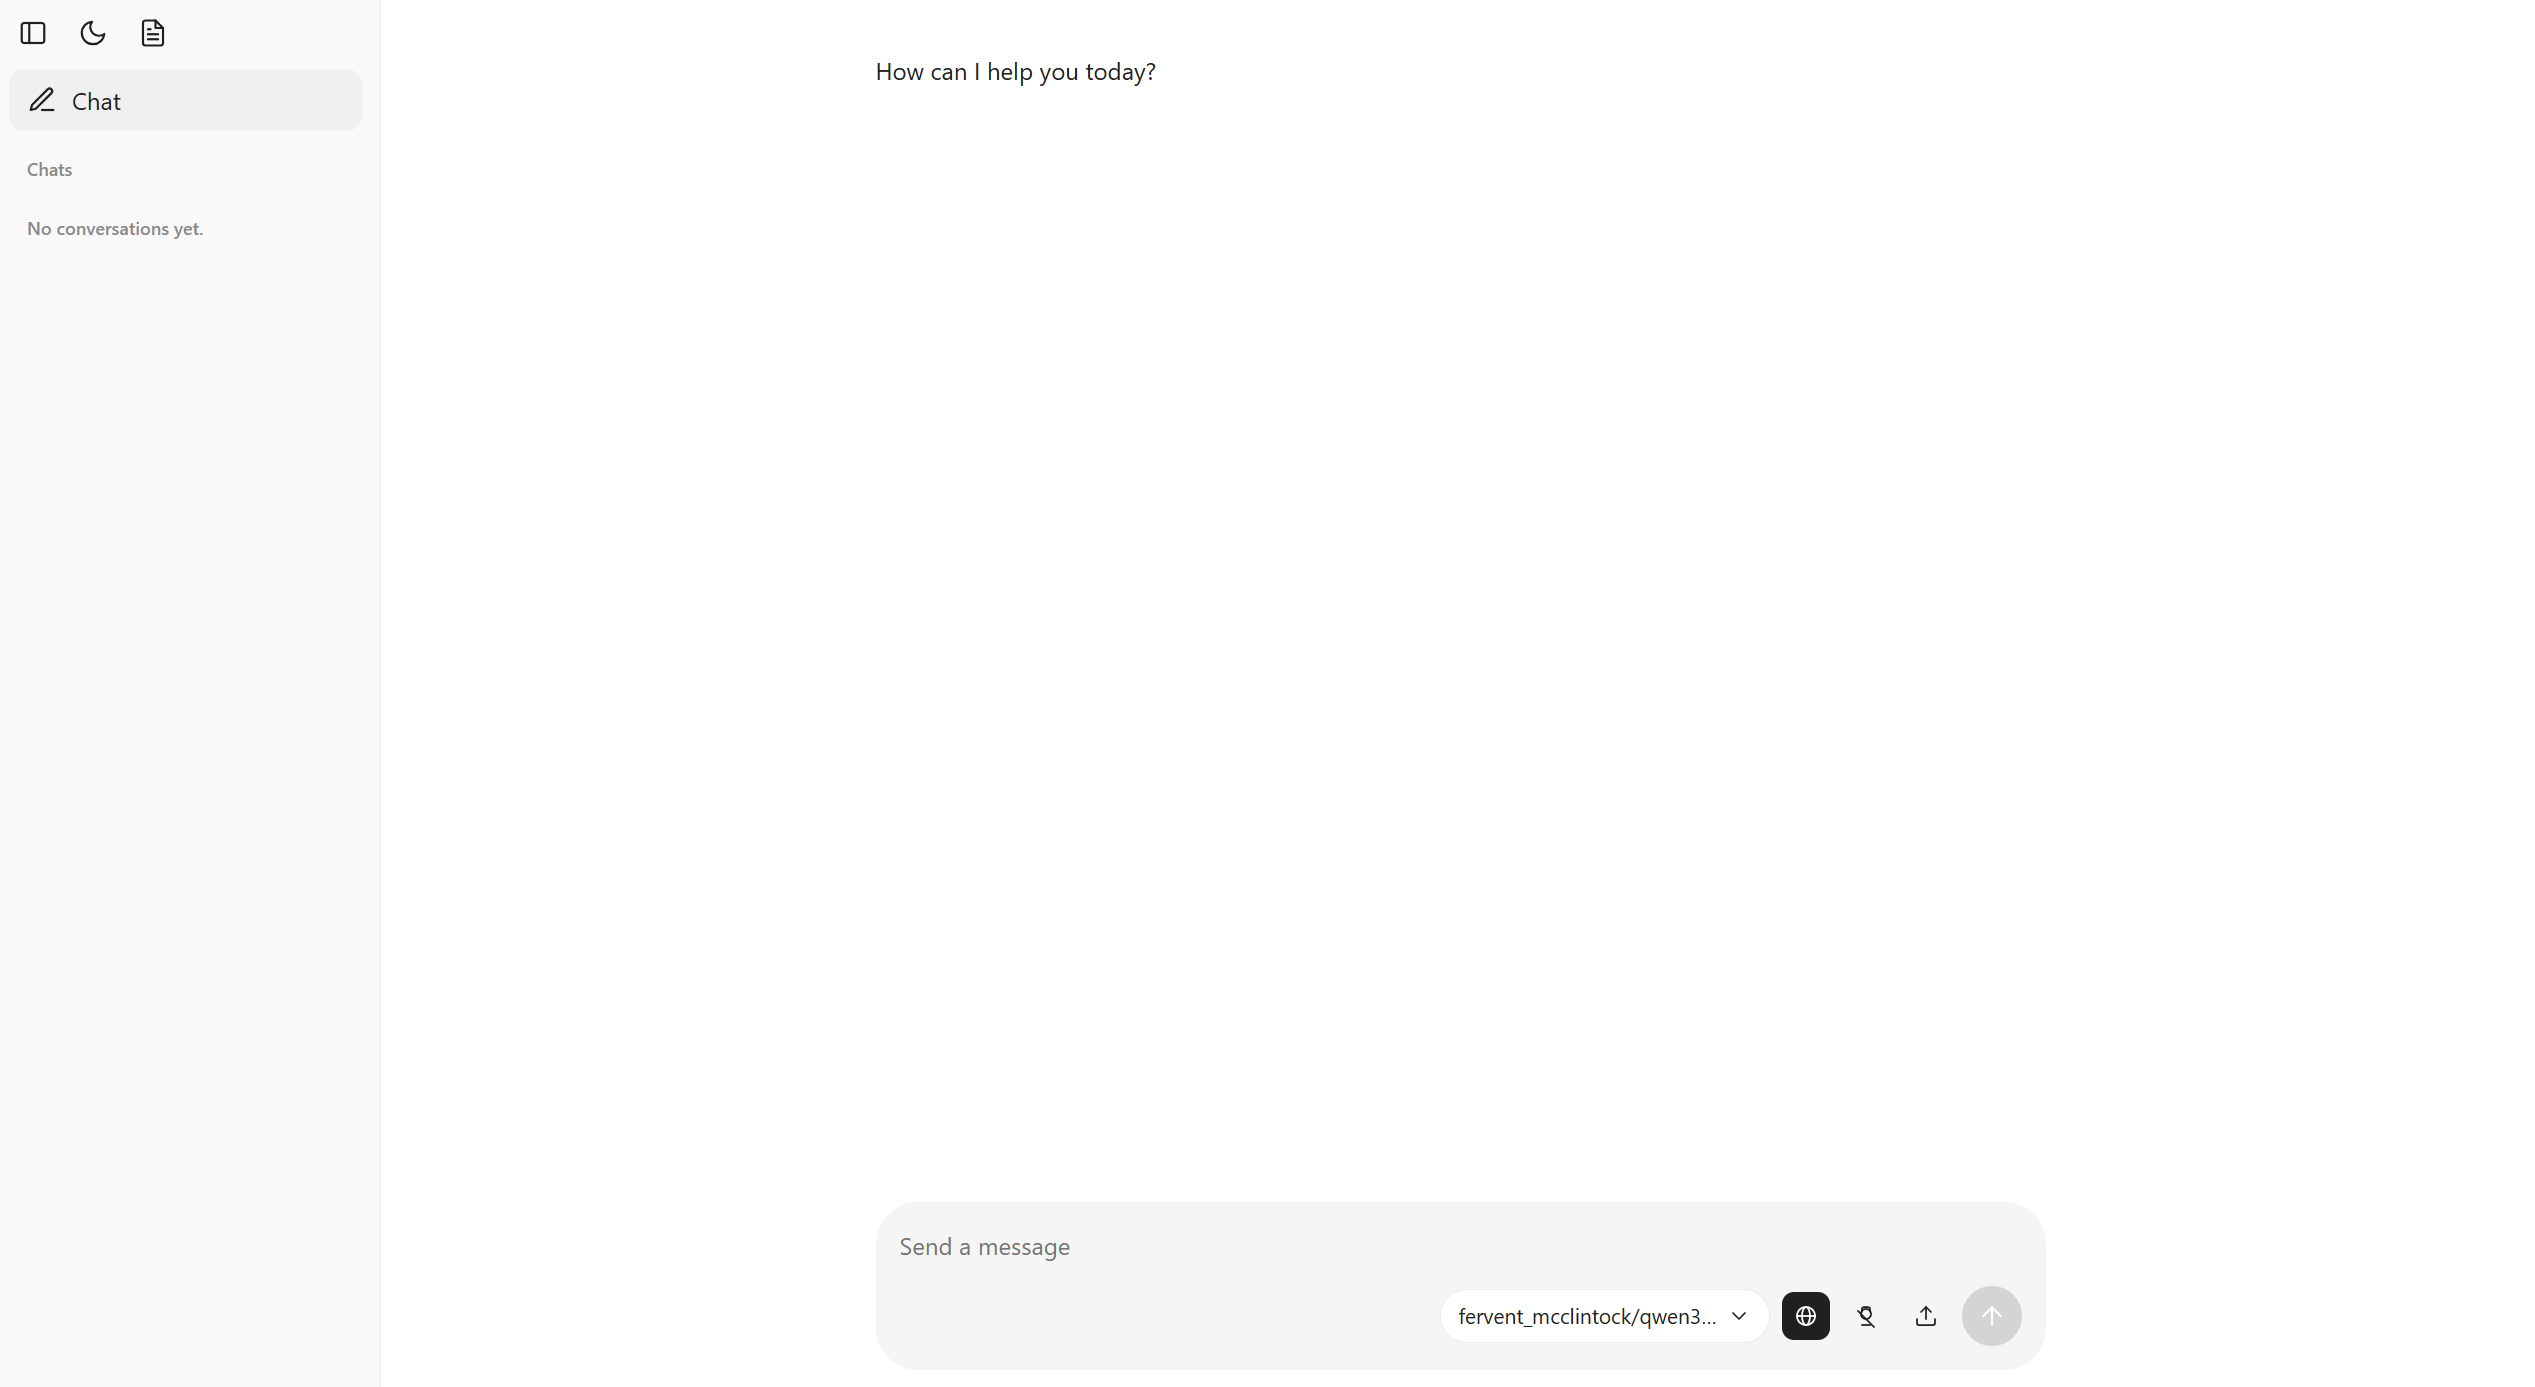
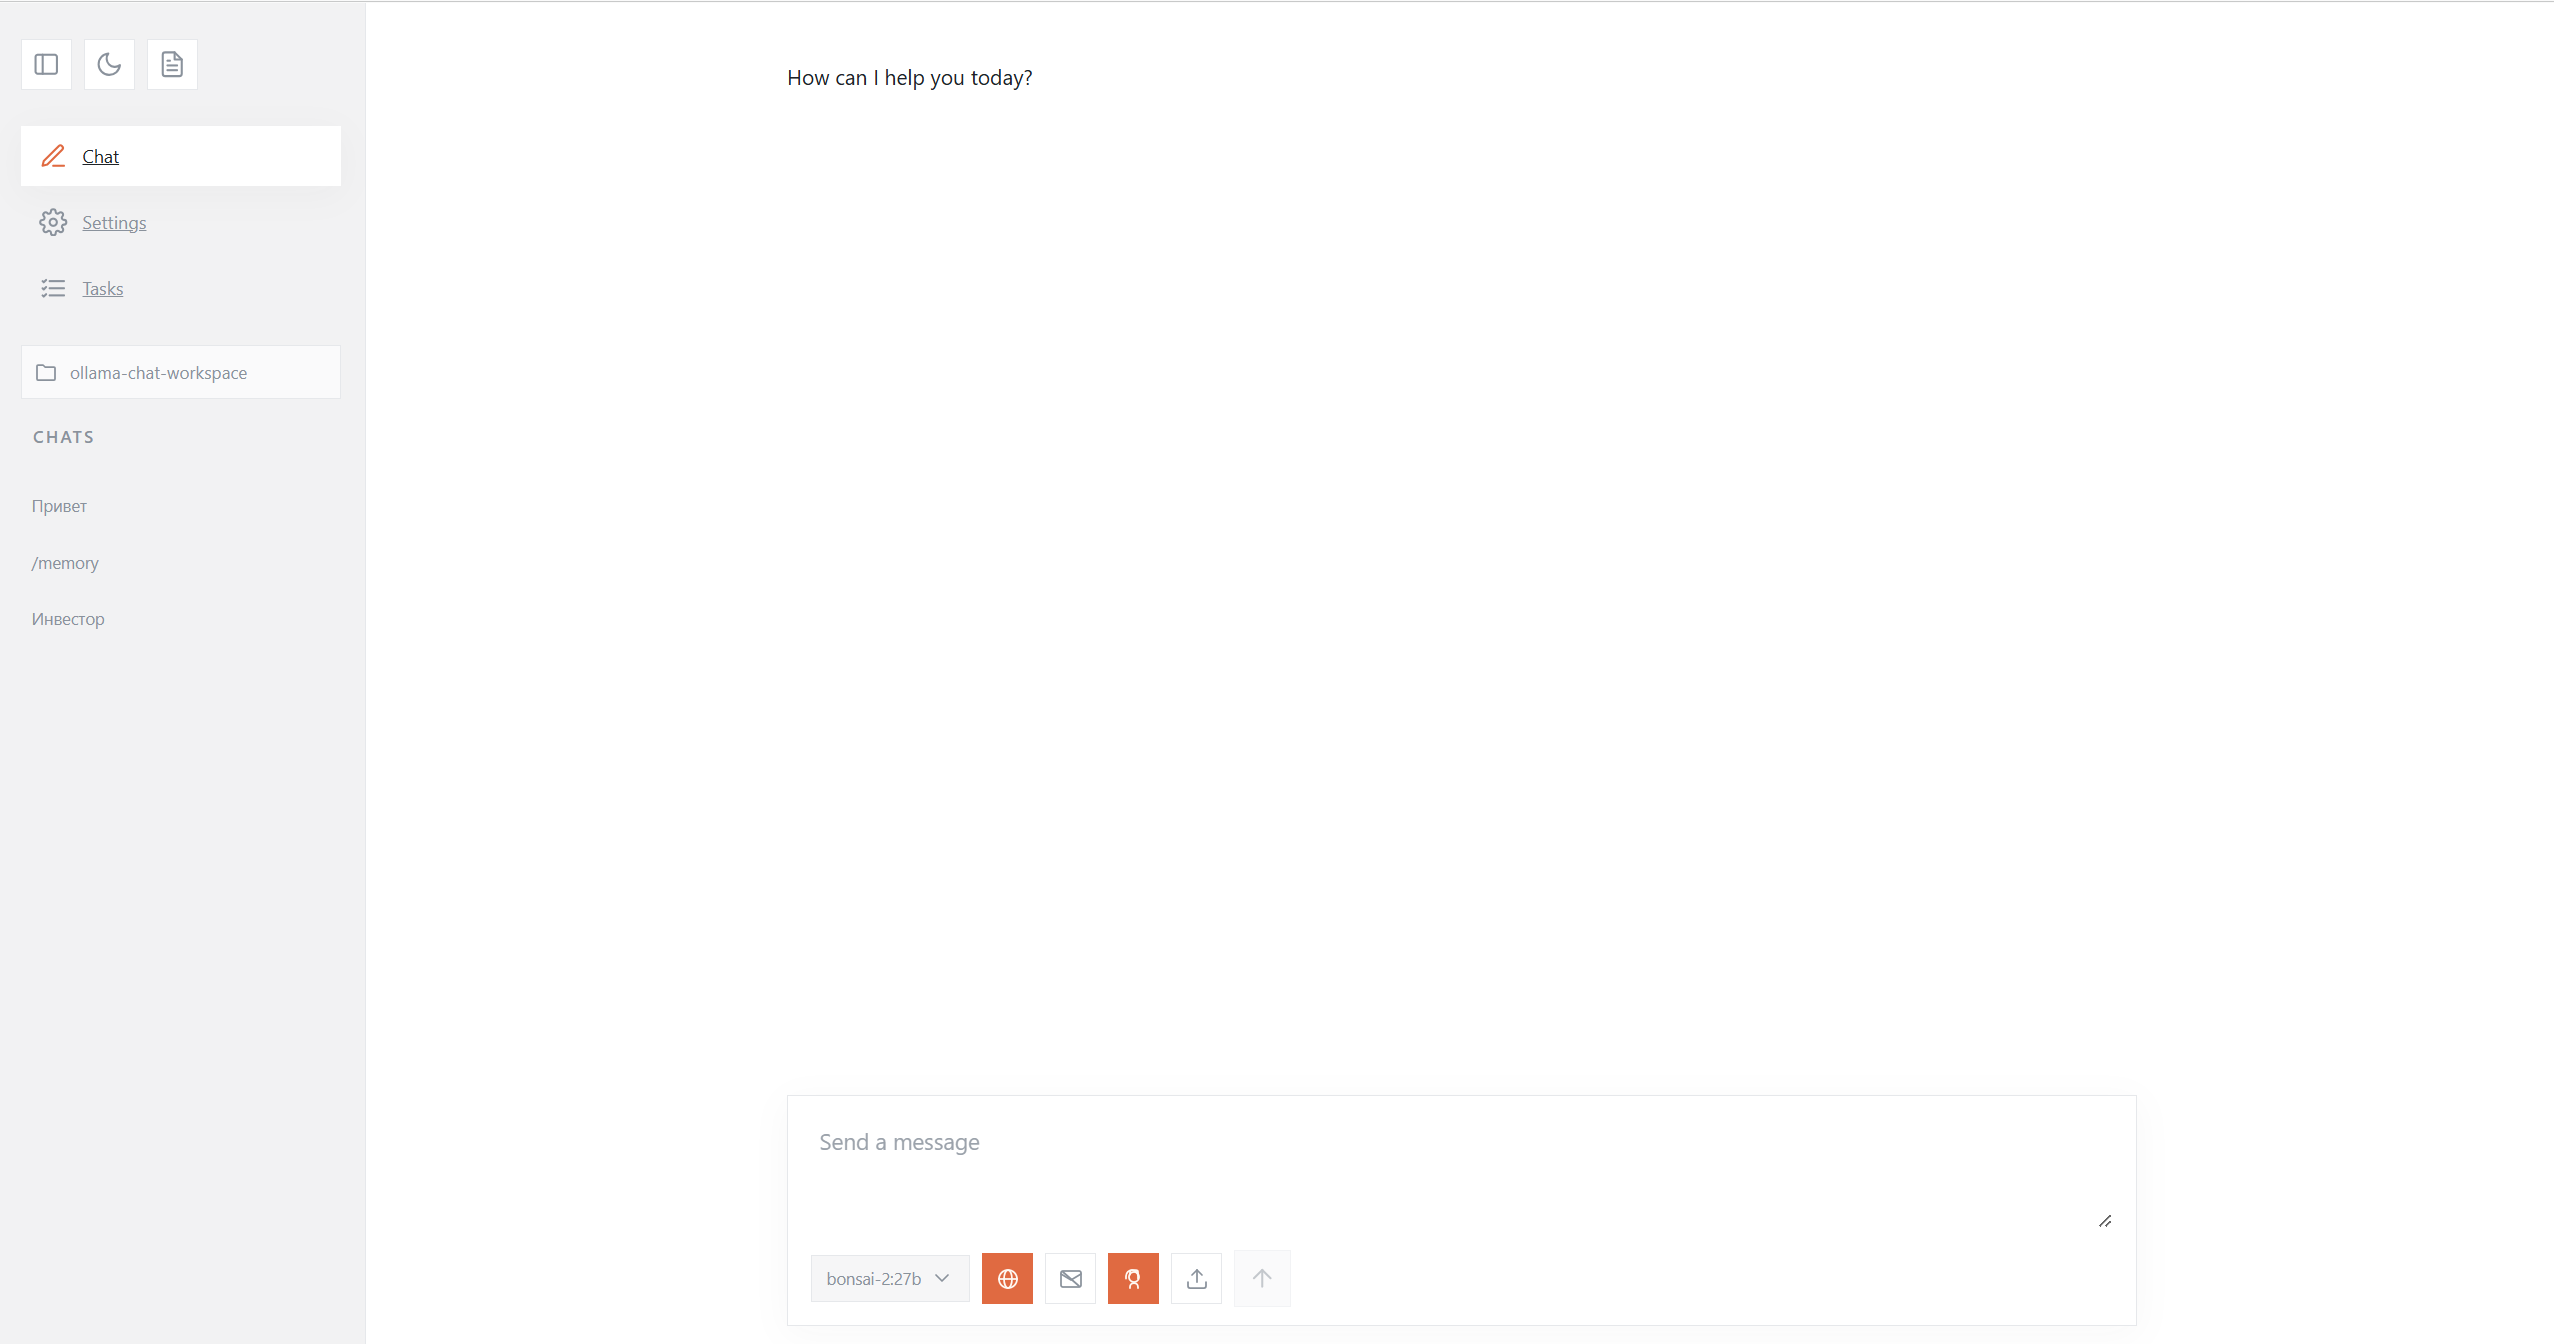
image

diff --git a/task-ollama.md b/task-ollama.md
@@ -1,0 +1,35 @@
+Работай в ветке dev. Не ломай существующий функционал.
+Не читай весь проект: смотри только фронтенд и модули
+настроек, почты и задач.
+
+Задача: убрать настройки из чата и вынести на отдельные страницы.
+
+1. Страница «Настройки» (отдельный маршрут):
+   - Раздел Workspace: путь к рабочей папке, кнопка смены,
+     проверка, что папка существует и доступна для записи.
+   - Раздел Gmail: IMAP/SMTP сервер и порты, логин, пароль
+     приложения, кнопка «Проверить подключение».
+   - Пароль: поле типа password, на сервере записывается в .env,
+     обратно в браузер не отправляется (показывать «сохранён»).
+     В ollama-chat.json и в git пароль не попадает.
+   - Сервер с настройками слушает только 127.0.0.1.
+
+2. Страница «Задачи» (отдельный маршрут):
+   - Список задач с состоянием (вкл/выкл), расписанием и
+     временем последнего запуска.
+   - Форма создания и изменения: название, расписание
+     (время и дни недели), текст задачи, модель, num_ctx,
+     разрешённые инструменты (send_email по умолчанию выключен).
+   - Кнопки: «Запустить сейчас», «Удалить», просмотр лога запуска.
+
+3. В чате:
+   - Из интерфейса чата убрать формы настроек и задач.
+   - В sidebar оставить название текущего workspace
+     и ссылки «Настройки» и «Задачи».
+   - Чат без этих страниц должен работать как раньше.
+4. Интерфейс:
+   -  Сделать похожим на Jan светлым
+   -  Примеры интерфейса в D:\ai_projects\ollama-chat\docs
+
+Дизайн: тот же стиль, что в чате, без скруглений.
+Обнови README (где теперь настройки и задачи).
